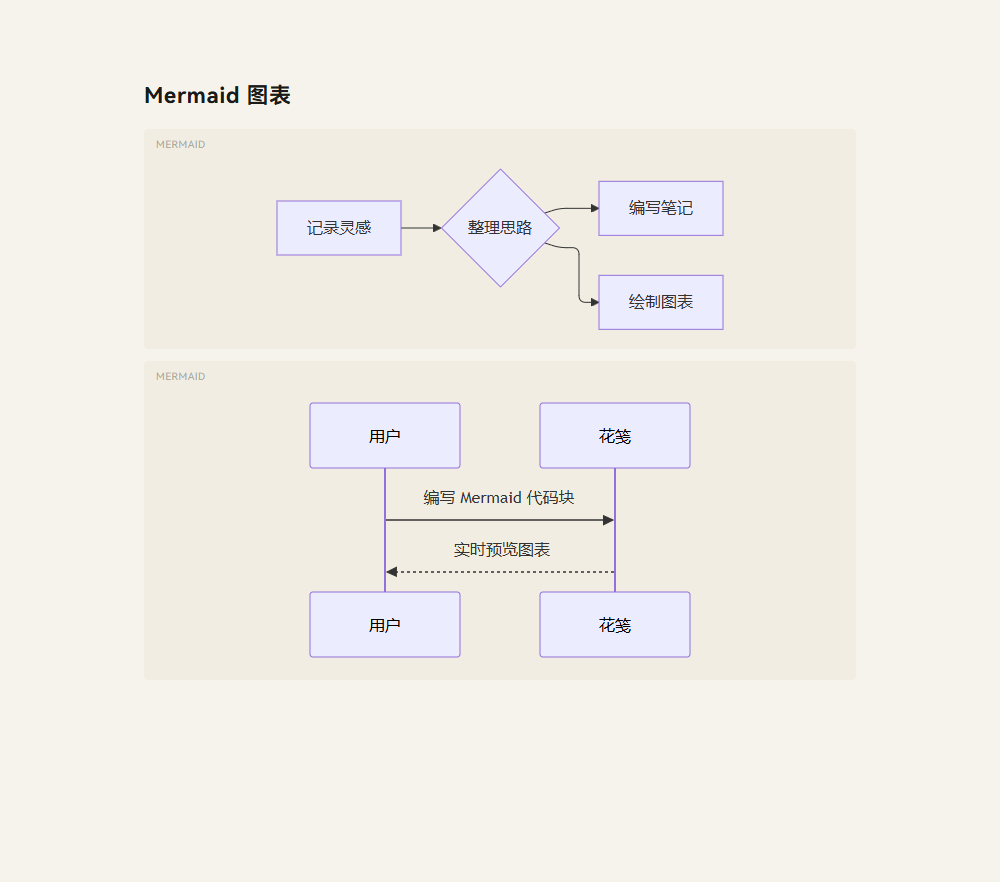
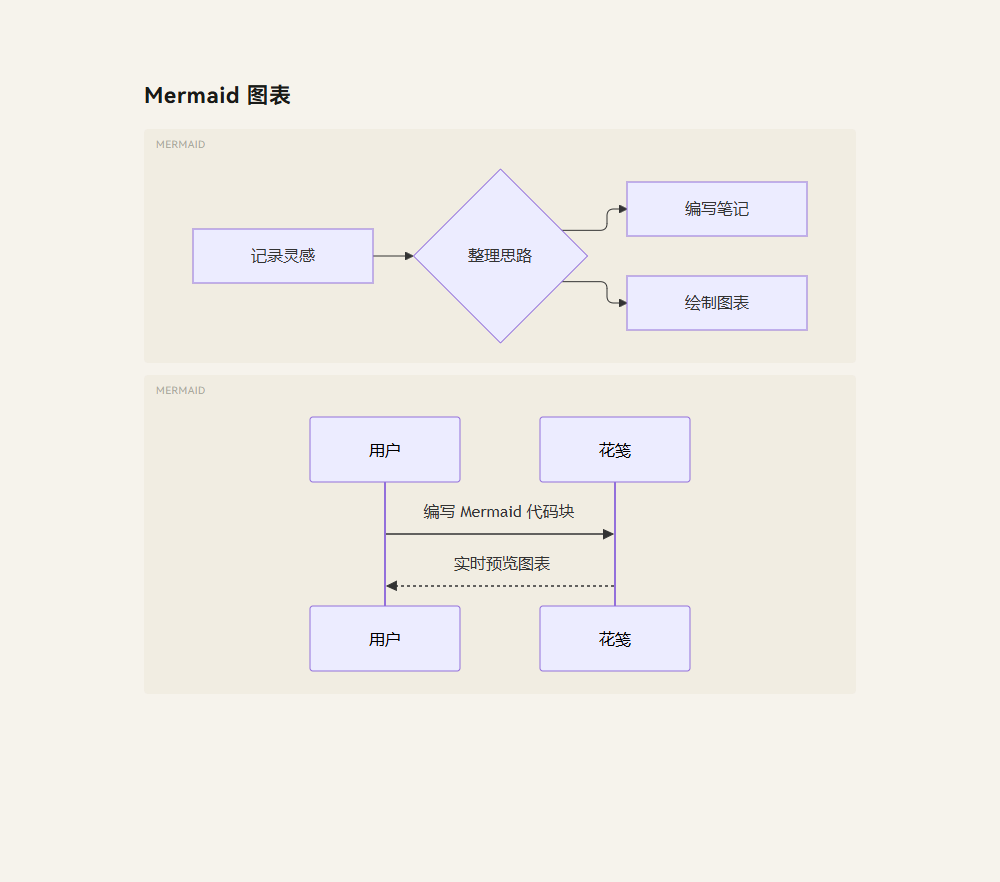
feat: upgrade to Mermaid 12 with ELK line hops

Changed region(s): [[0.31, 0.4286, 0.713, 0.7653], [0.186, 0.1837, 0.806, 0.398], [0.155, 0.398, 0.217, 0.4592]]

diff --git a/src/features/markdown/mermaid.test.ts b/src/features/markdown/mermaid.test.ts
@@ -1,13 +1,11 @@
 // @vitest-environment jsdom
 import { beforeEach, expect, test, vi } from "vitest";
 import mermaid from "mermaid";
-import elkLayouts from "@mermaid-js/layout-elk";
 import { renderMermaid } from "./mermaid";
 
 vi.mock("mermaid", () => ({
-  default: { initialize: vi.fn(), render: vi.fn(), registerLayoutLoaders: vi.fn() },
+  default: { initialize: vi.fn(), render: vi.fn() },
 }));
-vi.mock("@mermaid-js/layout-elk", () => ({ default: [{ name: "elk", loader: vi.fn() }] }));
 
 beforeEach(() => vi.clearAllMocks());
 
@@ -24,6 +22,8 @@ test("serializes configuration and rendering, uses unique IDs, and removes tempo
       securityLevel: "strict",
       suppressErrorRendering: true,
       layout: "elk",
+      elk: { lineHops: true },
+      look: "classic",
     });
     expect(config?.secure).toContain("securityLevel");
     await Promise.resolve();
@@ -37,10 +37,6 @@ test("serializes configuration and rendering, uses unique IDs, and removes tempo
     renderMermaid("graph TD; C-->D", true),
   ]);
   expect(new Set(ids).size).toBe(2);
-  expect(mermaid.registerLayoutLoaders).toHaveBeenCalledExactlyOnceWith(elkLayouts);
-  expect(vi.mocked(mermaid.registerLayoutLoaders).mock.invocationCallOrder[0]).toBeLessThan(
-    vi.mocked(mermaid.initialize).mock.invocationCallOrder[0],
-  );
   expect(themes).toEqual(["default", "dark"]);
   expect(document.body.childElementCount).toBe(before);
 });

diff --git a/src/features/markdown/mermaid.ts b/src/features/markdown/mermaid.ts
@@ -1,22 +1,20 @@
 // Initialize and render together: Mermaid's configuration is shared between diagrams.
 let renderQueue: Promise<unknown> = Promise.resolve();
 let nextId = 0;
-let elkRegistered = false;
 
 export function renderMermaid(source: string, dark: boolean): Promise<string> {
   const render = renderQueue.then(async () => {
     const { default: mermaid } = await import("mermaid");
-    if (!elkRegistered) {
-      const { default: elkLayouts } = await import("@mermaid-js/layout-elk");
-      mermaid.registerLayoutLoaders(elkLayouts);
-      elkRegistered = true;
-    }
     mermaid.initialize({
       startOnLoad: false,
       securityLevel: "strict",
       suppressErrorRendering: true,
       theme: dark ? "dark" : "default",
+      look: "classic",
       layout: "elk",
+      elk: {
+        lineHops: true,
+      },
       flowchart: { htmlLabels: false },
       secure: [
         "secure",

diff --git a/Docs/Mermaid.md b/Docs/Mermaid.md
@@ -2,7 +2,9 @@
 
 在笔记中使用语言为 `mermaid` 的围栏代码块，切换到预览即可显示图表。主窗口、便签窗口和磁贴使用相同的渲染方式，无需启用 HTML 渲染，也无需联网。
 
-使用 Mermaid 11 配合官方 `@mermaid-js/layout-elk` 扩展，默认布局为 **ELK**。流程图等支持可选布局的图表会使用 ELK；时序图等具有专用布局的图表仍使用自己的布局方式。
+使用 **Mermaid 12** 内置的 **ELK**，无需安装或注册独立布局扩展。默认启用 ELK 布局和交叉跳线桥（`elk.lineHops: true`），保留经典外观（`look: classic`）。流程图等支持可选布局的图表会使用 ELK；时序图等具有专用布局的图表仍使用自己的布局方式。
+
+源码开发需要 **Node.js 22.12+**。Mermaid 12 的浏览器基线为 ES2024 / Safari 17.4+，原生桌面运行需要相应版本的 WebView；Node.js 不是安装后运行桌面应用的前提。
 
 ````markdown
 ```mermaid
@@ -39,8 +41,29 @@ flowchart LR
 ```
 ````
 
+ELK 的交叉默认绘制小圆弧，表示两条连线经过交叉点但未连接。可以按图表改成留空断口，或用 `lineHops: false` 关闭：
+
+````markdown
+```mermaid
+---
+config:
+  layout: elk
+  elk:
+    lineHops: gap
+---
+flowchart LR
+  A & B & C & D --> E & F & G & H
+```
+````
+
+跳线桥只在适合的交叉位置生成；靠近拐角、空间不足或以曲线绘制的连线可能跳过，避免破坏线条。升级也可能改变节点位置和连线路由，不能保证每个交叉处都出现小桥。
+
 以下截图来自 Windows Edge 中的 Markdown 预览组件，非 Tauri 桌面窗口。
 
 ![浅色主题下的流程图和时序图](images/mermaid-light.png)
 
 ![深色主题下的流程图和时序图](images/mermaid-dark.png)
+
+默认圆弧跳线（上面示例删除 `elk.lineHops: gap` 后的效果）：
+
+![ELK 交叉处的默认圆弧跳线](images/mermaid-hops.png)

diff --git a/Docs/CONTRIBUTING_en-US.md b/Docs/CONTRIBUTING_en-US.md
@@ -8,7 +8,7 @@ Thank you for your interest in Floral Notepaper! This guide will help you get st
 
 ### Dependencies
 
-- [Node.js](https://nodejs.org/) - 20.19+ or 22.12+
+- [Node.js](https://nodejs.org/) - 22.12+ (required by Mermaid 12; Node 24 LTS recommended)
 - [Rust](https://www.rust-lang.org/tools/install) toolchain
 - Additional:
 

diff --git a/CONTRIBUTING.md b/CONTRIBUTING.md
@@ -8,7 +8,7 @@
 
 ### 依赖
 
-- [Node.js](https://nodejs.org/) - 20.19+ 或 22.12+
+- [Node.js](https://nodejs.org/) - 22.12+（Mermaid 12 要求；推荐使用 Node 24 LTS）
 - [Rust](https://www.rust-lang.org/tools/install) 工具链
 - 其他：
 

diff --git a/Docs/CONTRIBUTING_zh-HK.md b/Docs/CONTRIBUTING_zh-HK.md
@@ -8,7 +8,7 @@
 
 ### 依賴
 
-- [Node.js](https://nodejs.org/) - 20.19+ 或 22.12+
+- [Node.js](https://nodejs.org/) - 22.12+（Mermaid 12 要求；建議使用 Node 24 LTS）
 - [Rust](https://www.rust-lang.org/tools/install) 工具鏈
 - 其他：
 
